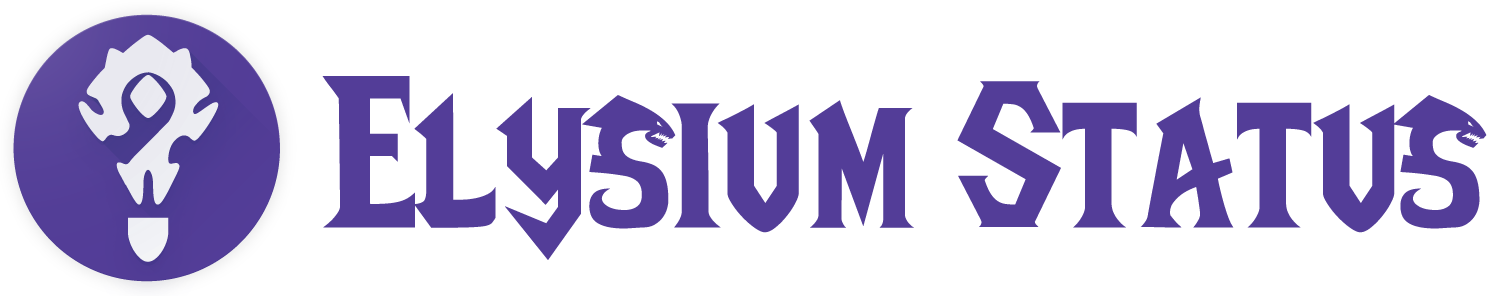
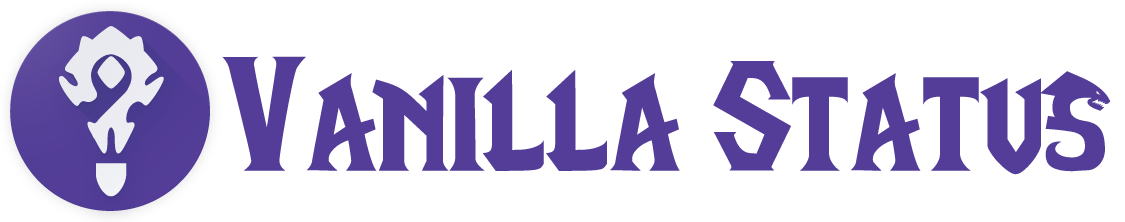
[feature] add support for lightshope and rebrand (#39)

Changed region(s): [[0.1867, 0.2432, 0.9956, 0.8649]]

diff --git a/app/util/parser.js b/app/util/parser.js
@@ -1,12 +1,12 @@
 import _ from 'lodash'
 
-import { SERVERS, SERVICES, SOON, FACTION_COLORS } from '../config'
+import { FACTION_COLORS } from '../config'
 
 export function parseSubtitle(server, { servers = {}, export_time }) {
   const queueData = servers[server.id] || {}
   const { queueAvailable, queue } = queueData
 
-  if (!queueAvailable && SOON[server.id]) {
+  if (!queueAvailable && server.isSoon) {
     return 'Soon™'
   }
 
@@ -33,32 +33,41 @@ export function parseRealmData(id, { servers = {}, available } = {}) {
   return servers[id] || {}
 }
 
-export function getTitle(id) {
-  const serverConfig = SERVERS[id] || {}
-
-  return serverConfig.name || 'Unknown Realm'
+export function getOrganizationName(id, organization = {}) {
+  return organization.name
 }
 
-export function getImage(id) {
-  const serverConfig = SERVERS[id] || {}
-
-  return serverConfig.image
+export function getTitle(id, server = {}) {
+  return server.name || 'Unknown Realm'
 }
 
-export function getOrder(id) {
-  const serverConfig = SERVERS[id] || {}
+export function getImage(id, server = {}) {
+  return server.image
+}
 
-  return serverConfig.order
+export function getOrder(id, server = {}) {
+  return server.order
+}
+
+export function getIsService(id, server = {}) {
+  return !server.isRealm
+}
+
+export function getDontGroup(id, server = {}) {
+  return server.dontGroup || false
+}
+
+export function getOrganizationId(id, server = {}) {
+  return server.organizationId
 }
 
 export function parseStatus(server, autoqueue, realmdata) {
   const { status, id } = server
-  const isService = SERVICES[id] || false
-  const serverConfig = SERVERS[id] || {}
-  const title = getTitle(id)
-  const image = getImage(id)
-  const order = getOrder(id)
-  const dontGroup = serverConfig.dontGroup || false
+  const isService = getIsService(id, server)
+  const title = getTitle(id, server)
+  const image = getImage(id, server)
+  const order = getOrder(id, server)
+  const dontGroup = getDontGroup(id, server)
 
   let subtitle
   if (!isService) {

diff --git a/app/components/detail/detail_content.js b/app/components/detail/detail_content.js
@@ -3,12 +3,13 @@ import { View, Text, StyleSheet, AsyncStorage, Platform, ToastAndroid } from 're
 import Fcm from 'react-native-fcm'
 import Icon from 'react-native-vector-icons/MaterialIcons'
 import { connect } from 'react-redux'
+import _ from 'lodash'
 
 import DetailRow from './detail_row'
 import StackedBar from '../material/charts/stacked_bar'
 import Press from '../material/buttons/press'
 
-import { parseStatus, parseRealmData, parseQueue, generateRatioGraphData } from '../../util/parser'
+import { parseStatus, parseRealmData, parseQueue, generateRatioGraphData, getOrganizationName, getOrganizationId } from '../../util/parser'
 
 const ENV = __DEV__ ? 'dev' : 'production'
 
@@ -132,6 +133,11 @@ class DetailContent extends Component {
           text={this.props.status ? 'Online' : 'Offline'}
           label='Status'
         />
+        <DetailRow
+          icon='account-balance'
+          text={this.props.organization || 'Unavailable'}
+          label='Organization'
+        />
         { !this.props.isService ? this.renderRealmData() : null }
       </View>
     )
@@ -169,12 +175,16 @@ function mapStateToProps({ stats }, { id }) {
   const servers = stats.data.servers || {}
   const autoqueue = stats.data.autoqueue || {}
   const realmdata = stats.data.realmdata || {}
-  const service = servers[id] || {}
+  const server = _.get(stats, ['data', 'servers', id])
+  const organizationId = getOrganizationId(id, server)
+  const organization = getOrganizationName(organizationId, _.get(stats, ['data', 'organizations', organizationId]))
+  console.log(organizationId, stats)
 
   return {
-    ...parseStatus({ ...service, id }, autoqueue),
+    ...parseStatus({ ...server, id }, autoqueue),
     ...parseRealmData(id, realmdata),
-    queue: parseQueue(id, autoqueue)
+    queue: parseQueue(id, autoqueue),
+    organization
   }
 }
 

diff --git a/app/components/grid.js b/app/components/grid.js
@@ -25,6 +25,8 @@ class Grid extends Component {
   constructor(props) {
     super(props)
     const { height, width } = Dimensions.get('window')
+    this.renderGroup = this.renderGroup.bind(this)
+
     this.state = {
       height,
       width
@@ -118,7 +120,7 @@ class Grid extends Component {
 
   render() {
     var groups = this.groupItems(this.props.items, this.props.itemsPerRow);
-    var ds = new ListView.DataSource({rowHasChanged: (r1, r2) => r1 !== r2});
+    var ds = new ListView.DataSource({ rowHasChanged: (r1, r2) => r1 !== r2 })
 
     return (
       <View
@@ -129,7 +131,7 @@ class Grid extends Component {
           {...this.props}
           contentContainerStyle={{ top: Platform.select({ android: 0, ios: 76 }) }}
           style={{ marginLeft: MARGIN_SIZE, marginRight: MARGIN_SIZE }}
-          renderRow={this.renderGroup.bind(this)}
+          renderRow={this.renderGroup}
           dataSource={ds.cloneWithRows(groups)}
         />
       </View>

diff --git a/app/config.js b/app/config.js
@@ -1,4 +1,3 @@
-
 export const CLASS_COLORS = {
   DRUID: '#FF7D0A',
   HUNTER: '#ABD473',
@@ -22,42 +21,4 @@ export const THEME = {
   ACCENT_COLOR: CLASS_COLORS.SHAMAN,
   SUCCESS_COLOR: 'rgba(0, 199, 80, 0.85)',
   ERROR_COLOR: 'rgba(209, 0, 0, 0.85)'
-}
-
-export const SERVERS = {
-  elysium_pvp: {
-    name: 'Elysium',
-    image: 'https://i.imgur.com/7Gisr3n.jpg',
-    dontGroup: true,
-    order: 1
-  },
-  anathema_pvp: {
-    name: 'Anathema',
-    image: 'https://i.imgur.com/B9QGZu3.jpg',
-    order: 2
-  },
-  darrowshire_pve: {
-    name: 'Darrowshire',
-    image: 'https://i.imgur.com/KcWcbPo.jpg',
-    order: 3
-  },
-  logon: {
-    name: 'Login Server',
-    image: 'https://i.imgur.com/JX1rAjE.jpg',
-    order: 4
-  },
-  website: {
-    name: 'Website',
-    image: 'https://i.imgur.com/Mzrli3R.jpg',
-    order: 5
-  }
-}
-
-export const SERVICES = {
-  logon: true,
-  website: true
-}
-
-export const SOON = {
-  // New servers
 }

diff --git a/app/components/material/error.js b/app/components/material/error.js
@@ -71,7 +71,7 @@ class Error extends Component {
       >
         <Icon name='cloud-off' size={128} color={ACCENT_COLOR} />
         <View style={{ padding: 24 }}>
-          <Text style={{ color: 'hsla(0, 0%, 100%, 0.9)', fontSize: 32, fontWeight: '600', marginBottom: 24 }}>Elysium Status' servers must be down</Text>
+          <Text style={{ color: 'hsla(0, 0%, 100%, 0.9)', fontSize: 32, fontWeight: '600', marginBottom: 24 }}>Vanilla Status' servers must be down</Text>
           <Text style={{ color: 'hsla(0, 0%, 100%, 0.9)', fontSize: 32, fontWeight: '600' }}>I'm sorry :(</Text>
         </View>
       </View>

diff --git a/app/components/app.android.js b/app/components/app.android.js
@@ -22,7 +22,7 @@ import Error from './material/error'
 
 import { THEME } from '../config'
 
-const TITLE = 'Elysium Status'
+const TITLE = 'Vanilla Status'
 const { PRIMARY_COLOR, BACKGROUND_COLOR,  ACCENT_COLOR } = THEME
 
 class App extends Component {
@@ -44,7 +44,7 @@ class App extends Component {
       return parseStatus(serverWithId, autoqueue)
     })
 
-    return <Grid items={_.sortBy(items, 'order' )} />
+    return <Grid items={_.sortBy(items, 'order')} />
   }
 
   render() {

diff --git a/app/components/detail/index.js b/app/components/detail/index.js
@@ -10,6 +10,7 @@ import {
   Platform
 } from 'react-native'
 import { connect } from 'react-redux'
+import _ from 'lodash'
 
 import { getTitle, getImage } from '../../util/parser'
 
@@ -76,9 +77,11 @@ const styles = StyleSheet.create({
 })
 
 function mapStateToProps(state, { id }) {
+  const server = _.get(state, ['stats', 'data', 'servers', id])
+
   return {
-    title: getTitle(id),
-    image: getImage(id)
+    title: getTitle(id, server),
+    image: getImage(id, server)
   }
 }
 

diff --git a/app/router/index.js b/app/router/index.js
@@ -42,7 +42,7 @@ export default class AppRouter extends Component {
         {...routerProps}
       >
         <Scene key='main'>
-          <Scene key='app' component={withNavbar(App)} title='Elysium Status' initial={true} />
+          <Scene key='app' component={withNavbar(App)} title='Vanilla Status' initial={true} />
           <Scene key='detail' component={withNavbar(Detail)} overrideNavbar={true} />
         </Scene>
       </ConnectedRouter>

diff --git a/app/router/navbar.android.js b/app/router/navbar.android.js
@@ -30,8 +30,9 @@ class NavBar extends Component {
     }
 
     let subtitle = 'Refreshing...'
-    if (_.get(servers, 'logon.lastUpdated')) {
-      subtitle = `Last updated ${moment(servers.logon.lastUpdated).fromNow()}`
+    // Get a better value for this
+    if (_.get(servers, 'lightshope_logon.lastUpdated')) {
+      subtitle = `Last updated ${moment(servers.lightshope_logon.lastUpdated).fromNow()}`
     }
 
     if (this.props.error) {

diff --git a/app/router/navbar.ios.js b/app/router/navbar.ios.js
@@ -30,8 +30,9 @@ class NavBar extends Component {
     }
 
     let subtitle = 'Refreshing...'
-    if (_.get(servers, 'logon.lastUpdated')) {
-      subtitle = `Last updated ${moment(servers.logon.lastUpdated).fromNow()}`
+    // Get a better value for this
+    if (_.get(servers, 'lightshope_logon.lastUpdated')) {
+      subtitle = `Last updated ${moment(servers.lightshope_logon.lastUpdated).fromNow()}`
     }
 
     if (this.props.error) {

diff --git a/app/components/app.ios.js b/app/components/app.ios.js
@@ -24,7 +24,7 @@ import { statsPoll } from '../modules/stats'
 
 import { THEME } from '../config'
 
-const TITLE = 'Elysium Status'
+const TITLE = 'Vanilla Status'
 const { PRIMARY_COLOR, BACKGROUND_COLOR, ACCENT_COLOR } = THEME
 
 class App extends Component {

diff --git a/README.md b/README.md
@@ -1,8 +1,8 @@
 <img src='./images/banner.png' />
 
->Mobile App for Android and iOS designed to monitor WoW server https://elysium-project.org/. It makes the process of checking elysium-project easier while on the go.
+>Mobile App for Android and iOS designed to monitor private WoW servers. It makes the process of checking wow server statuses easier while on the go.
 
-* **Current Status**: Alpha
+* **Current Status**: Beta
 
 #### Status
 <img src='./images/android.png' height='400' /> <img src='./images/ios.png' height='400' />
@@ -19,6 +19,10 @@ https://play.google.com/store/apps/details?id=com.elysiumstatus
 
 ###### iOS (Waiting on Developer Account)
 Not yet released
+
+**Supported Supported**
+  * Light's Hope
+  * Elysium project
 
 * **
 # Getting Started
@@ -37,7 +41,7 @@ https://facebook.github.io/react-native/docs/getting-started.html
 2. Create a new project
 3. Click Add Firebase to your Android app
 4. Use `com.elysiumstatus.dev` as Package name
-5. Add a nickname something like `Elysium Status Development`
+5. Add a nickname something like `Vanilla Status Development`
 6. Click add app
 7. It should have downloaded a `google-services.json` file.
 8. Move that file to `android/app/` directory
